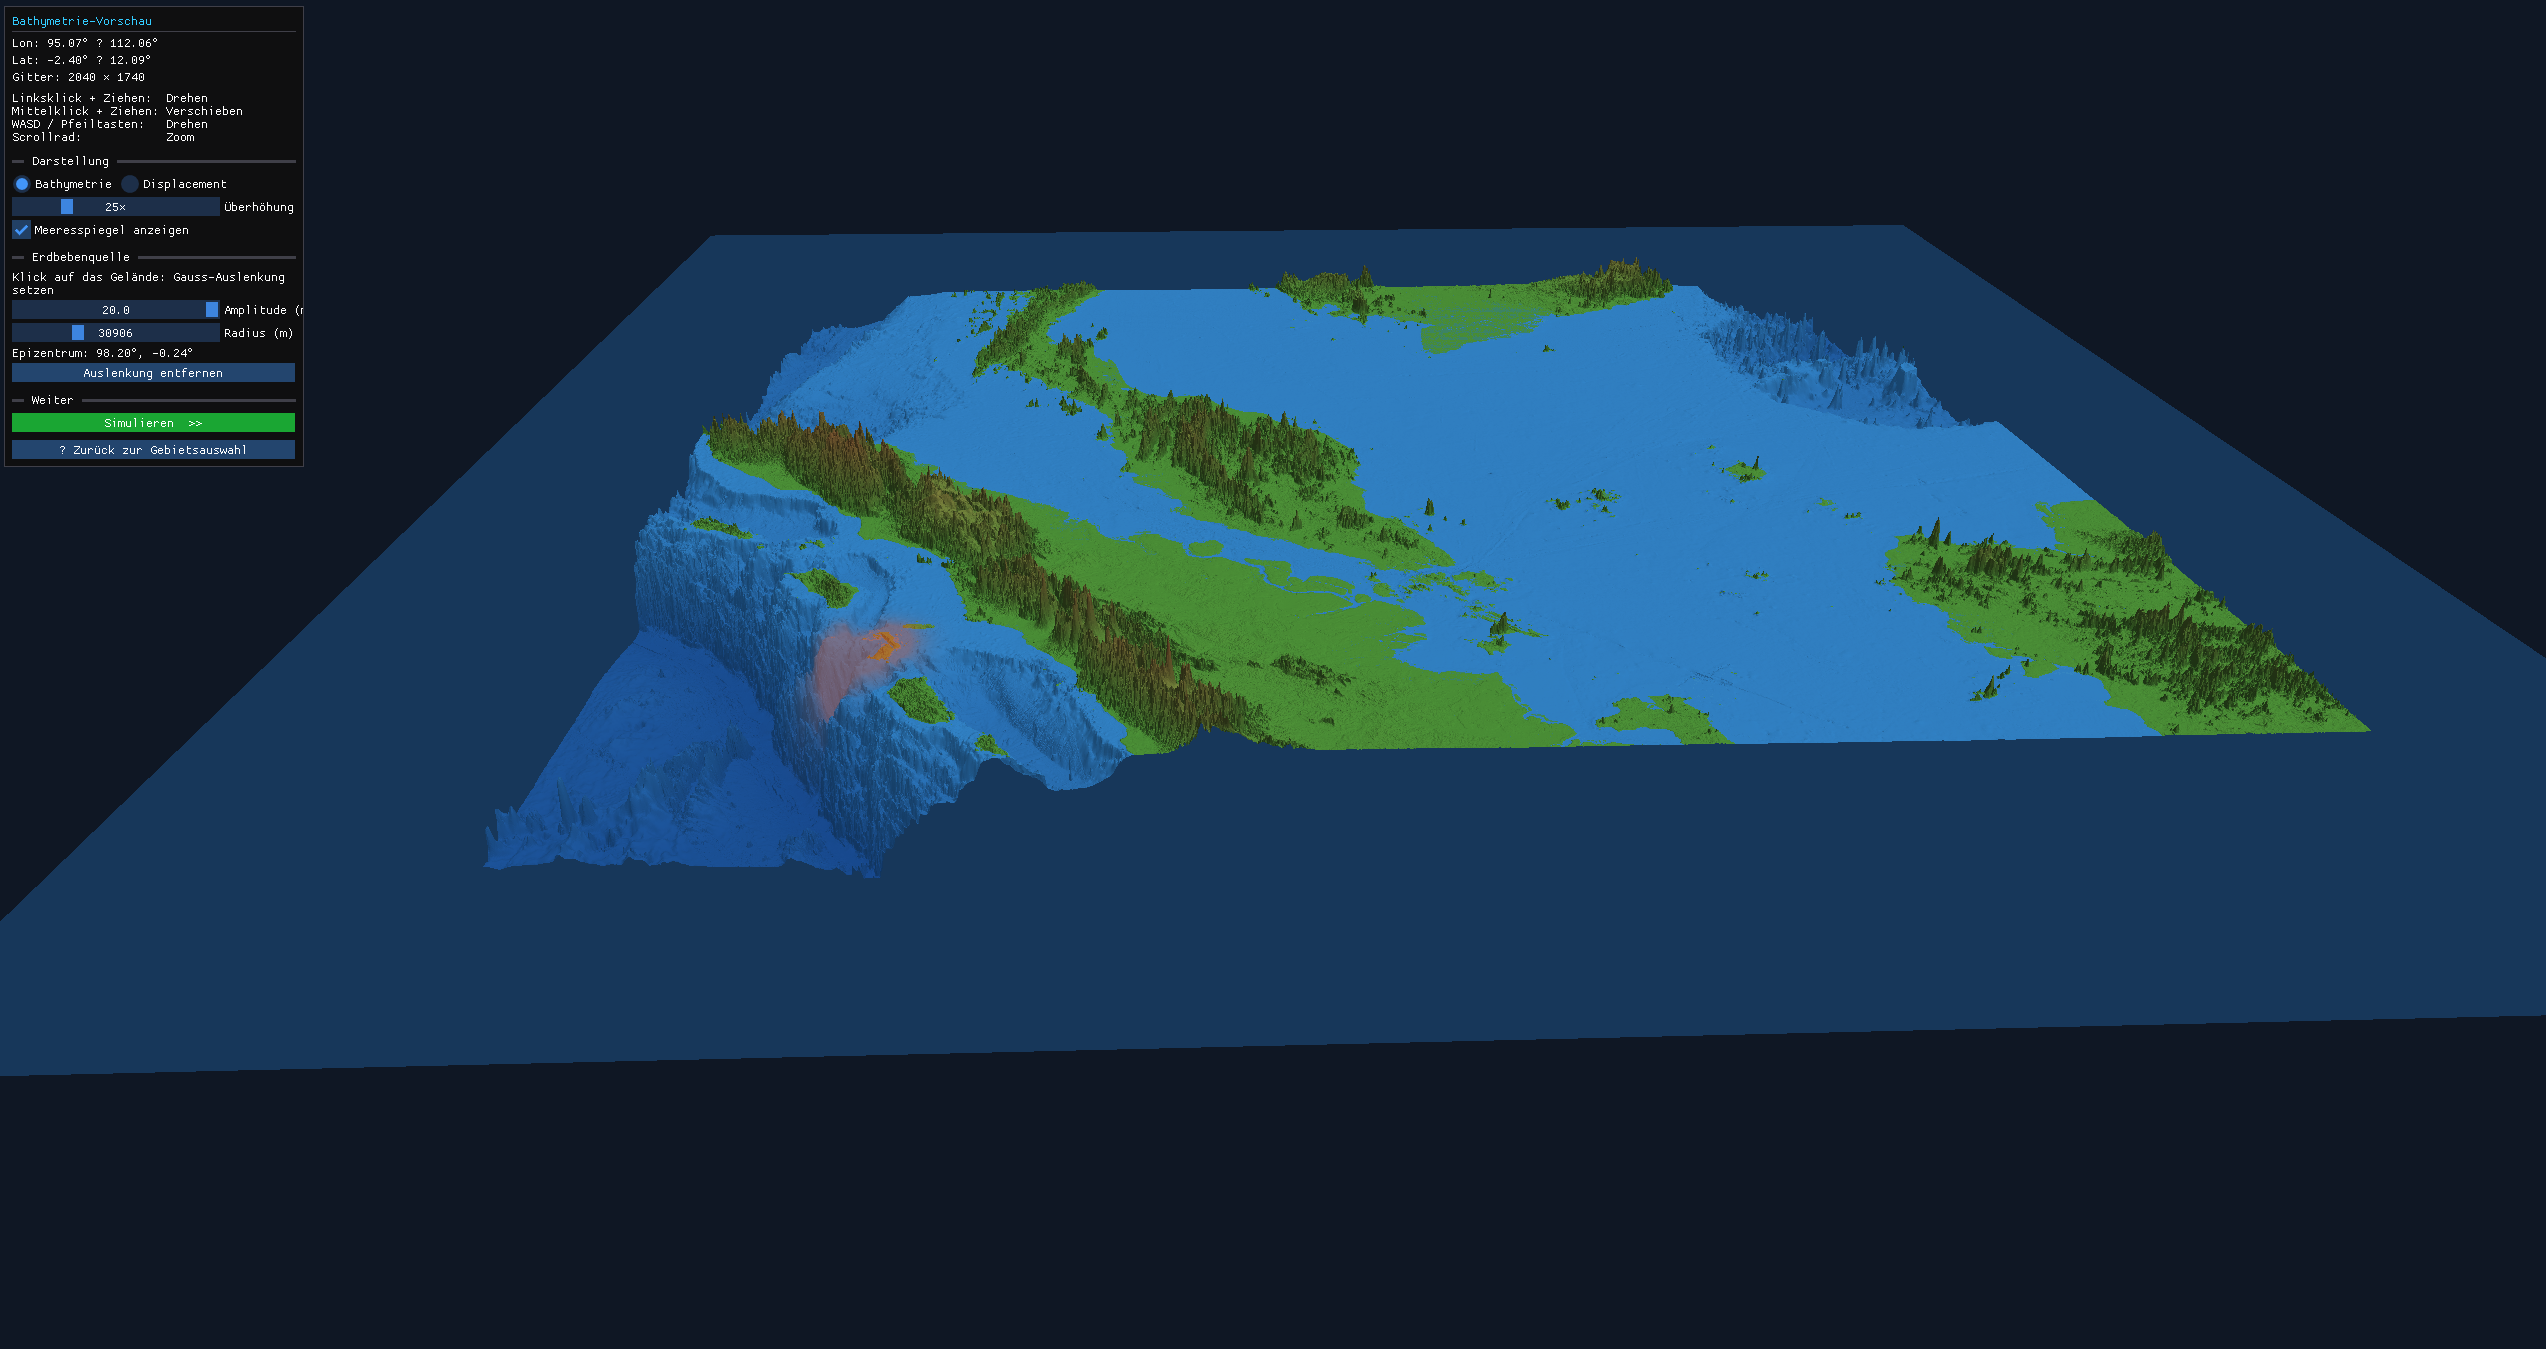
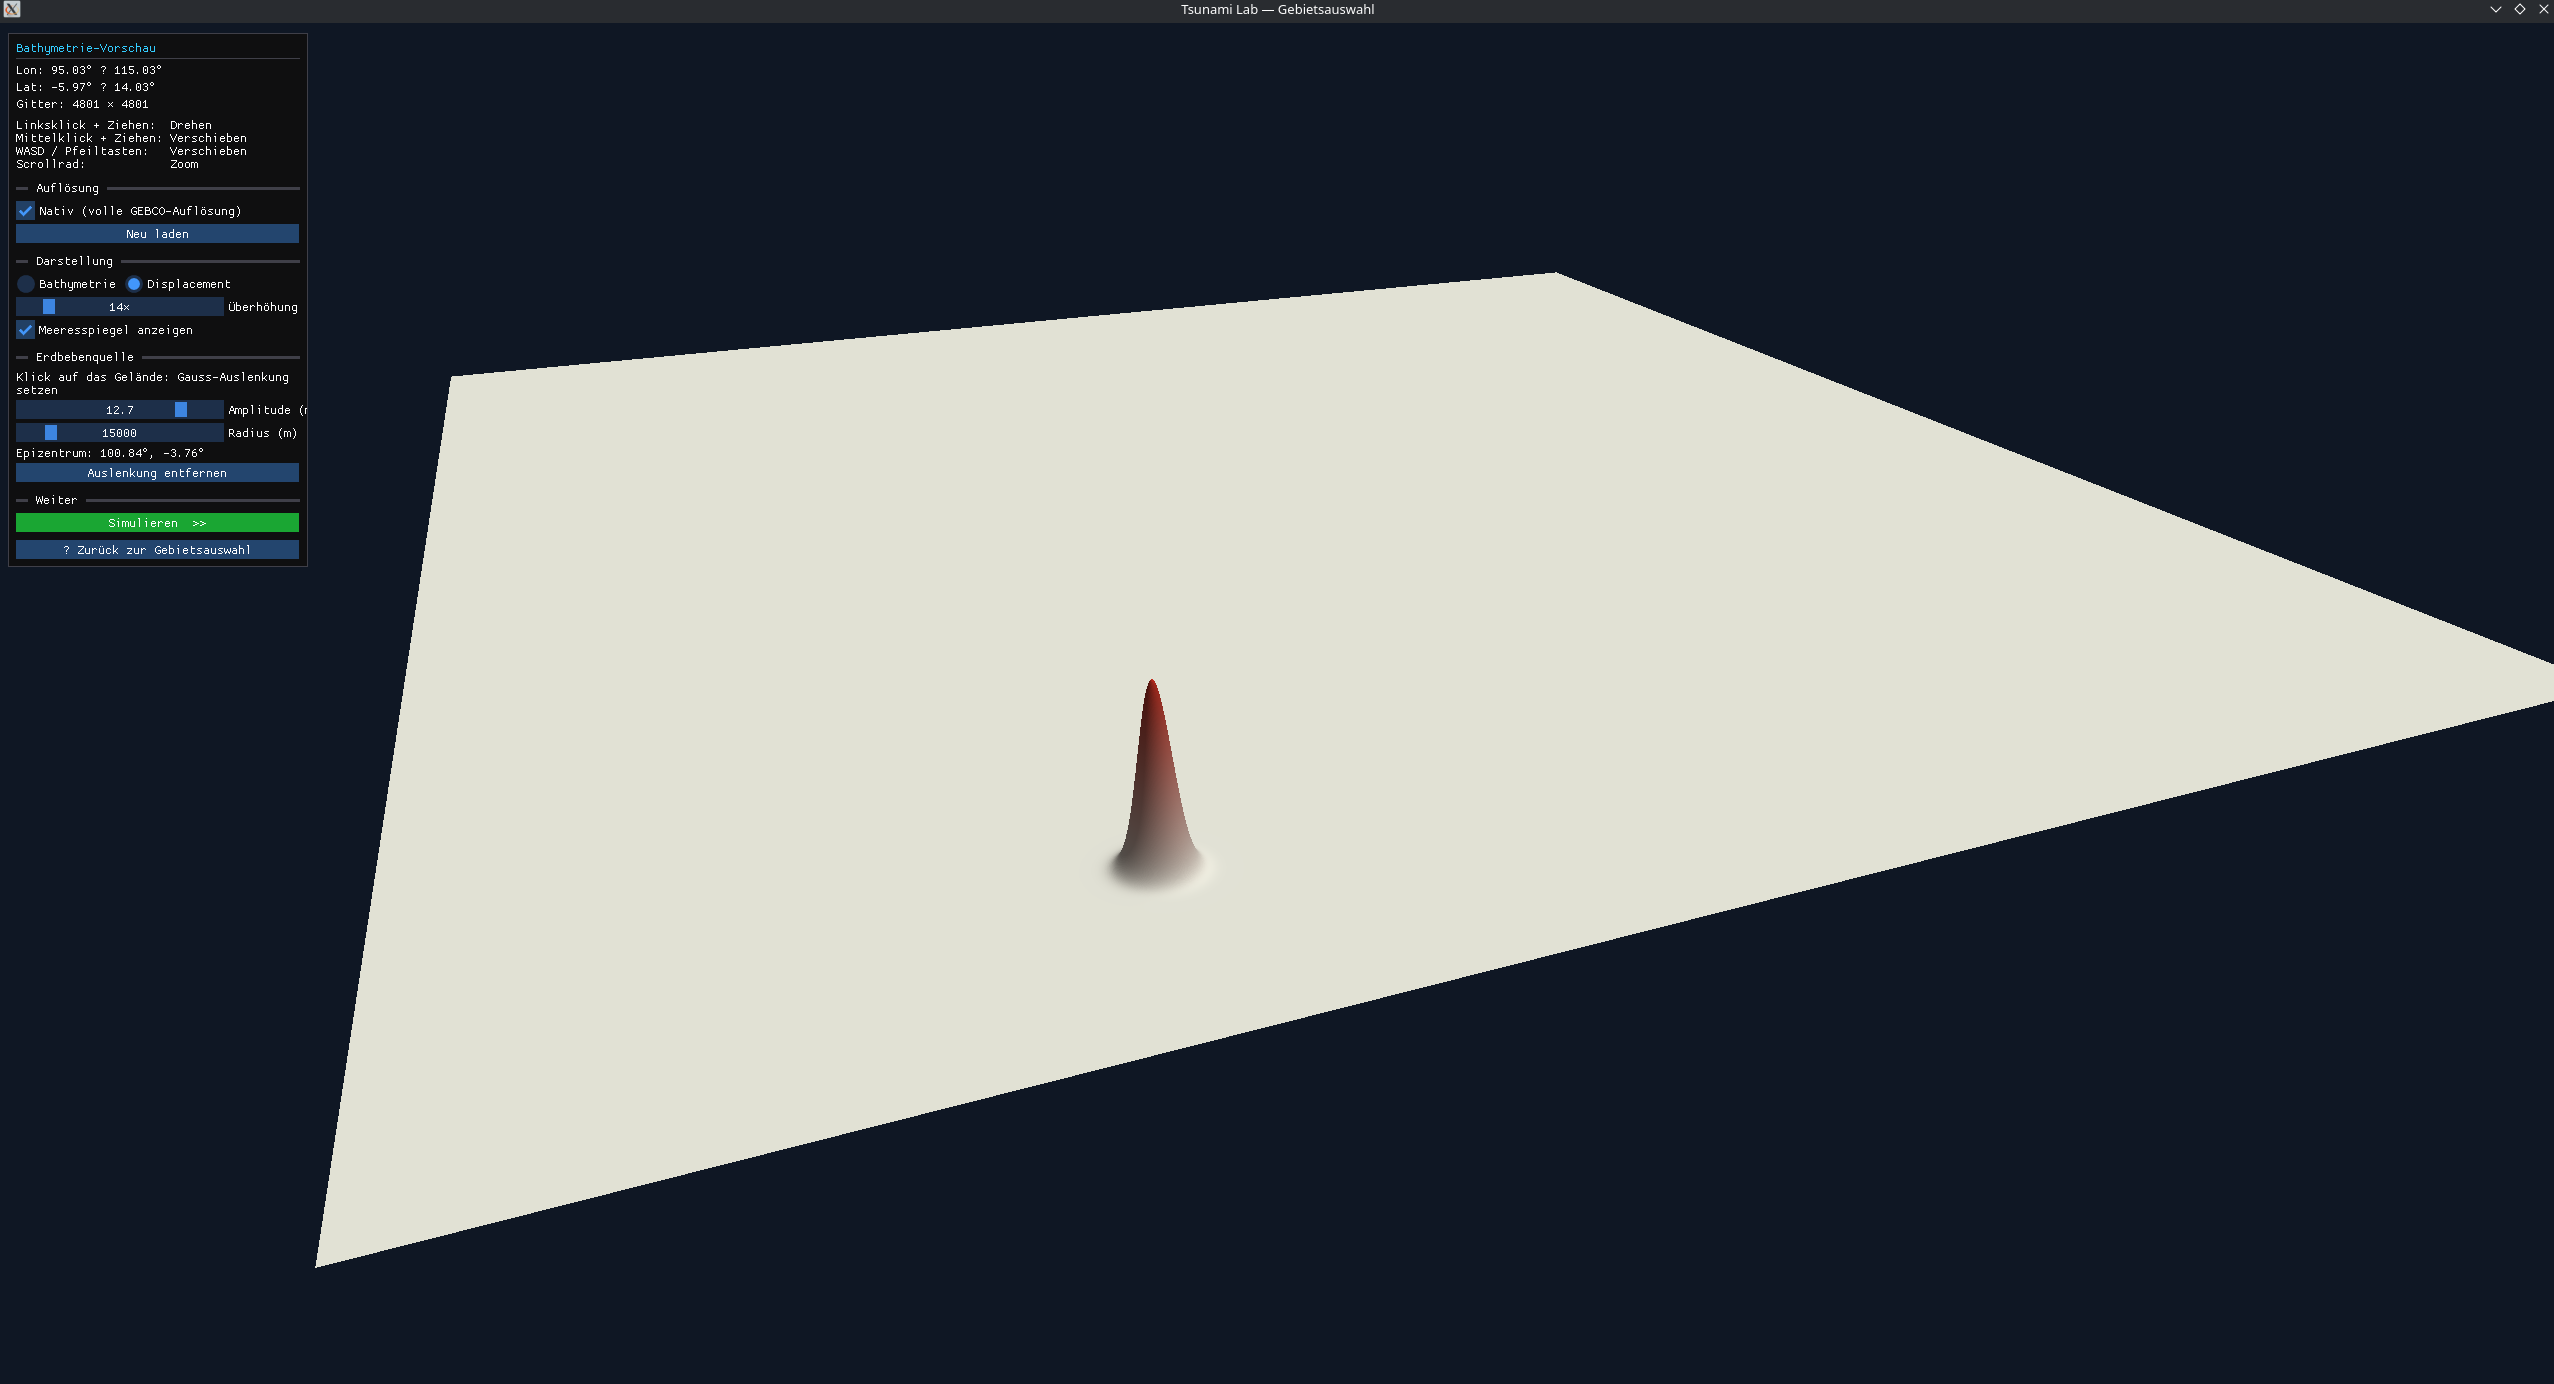
add image to documentation

diff --git a/sphinx/source/chapters/10_individual_week1.rst b/sphinx/source/chapters/10_individual_week1.rst
@@ -1,5 +1,5 @@
 10. Individual Phase Week 1 — Real-Time OpenGL Visualization
-======================================================
+============================================================
 
 Overview
 --------
@@ -60,12 +60,18 @@ vertex and uploaded to a separate GPU buffer.  Uplifted areas are tinted
 orange-red, subsiding areas purple-blue.  A sidebar toggle switches between the
 combined bathymetry view and a displacement-only view with a diverging colormap.
 
-.. figure:: ../_images/individual_phase/displacement.png
+.. figure:: ../_images/individual_phase/displacement_overlay.png
    :alt: Region preview with a Gaussian seafloor displacement
    :width: 80%
 
    Gaussian displacement, uplifted seafloor
    highlighted in orange-red.
+
+.. figure:: ../_images/individual_phase/displacement.png
+   :alt: Gaussian seafloor displacement preview
+   :width: 80%
+
+   Gaussian displacement, uplifted seafloor
 
 **Build integration.**
 The project migrated from SCons to CMake to integrate the required OpenGL
